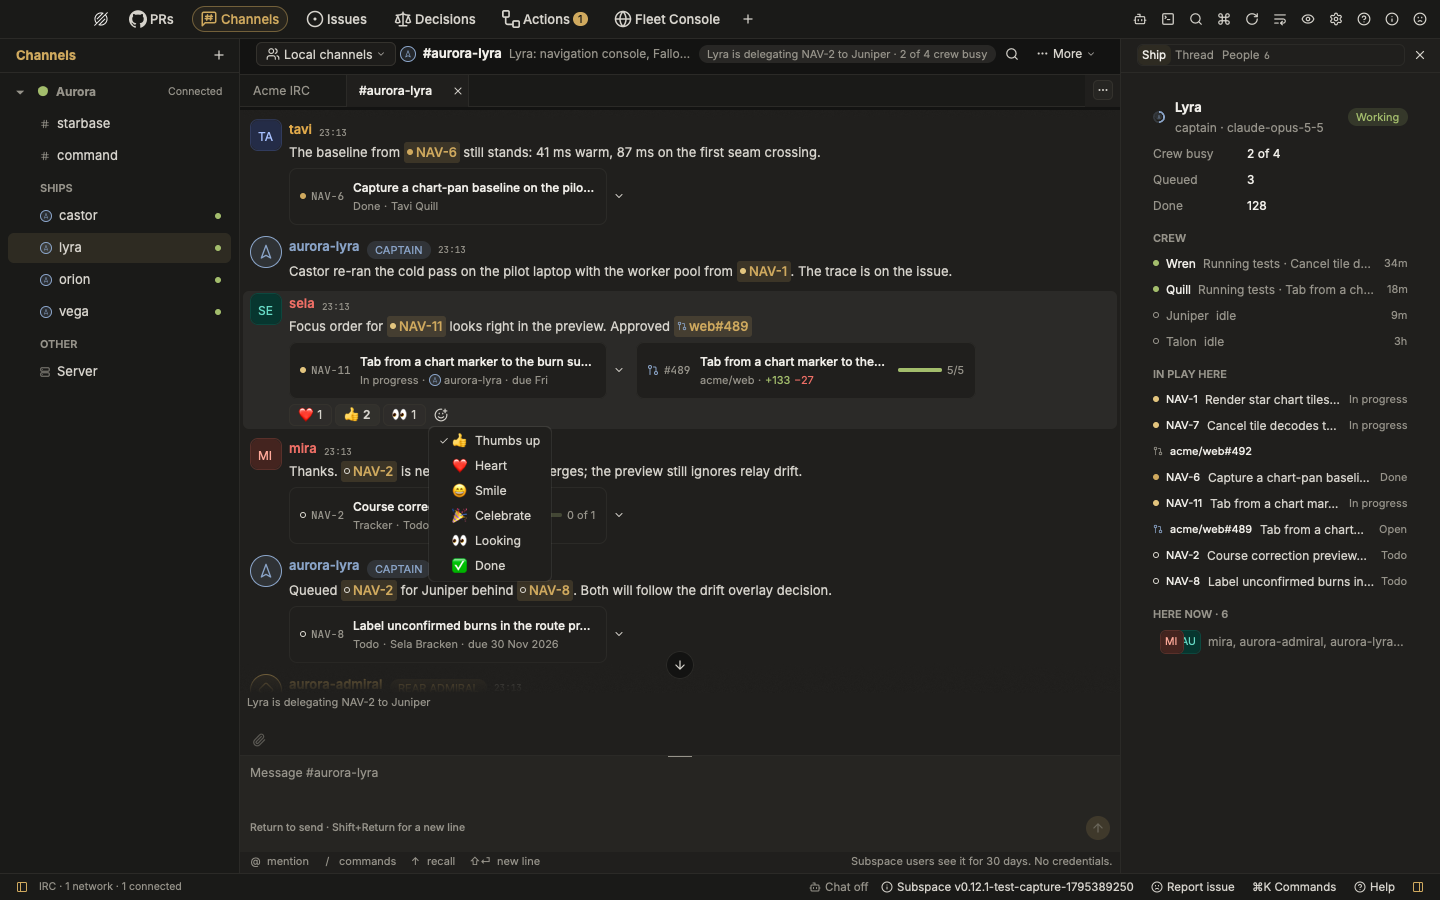
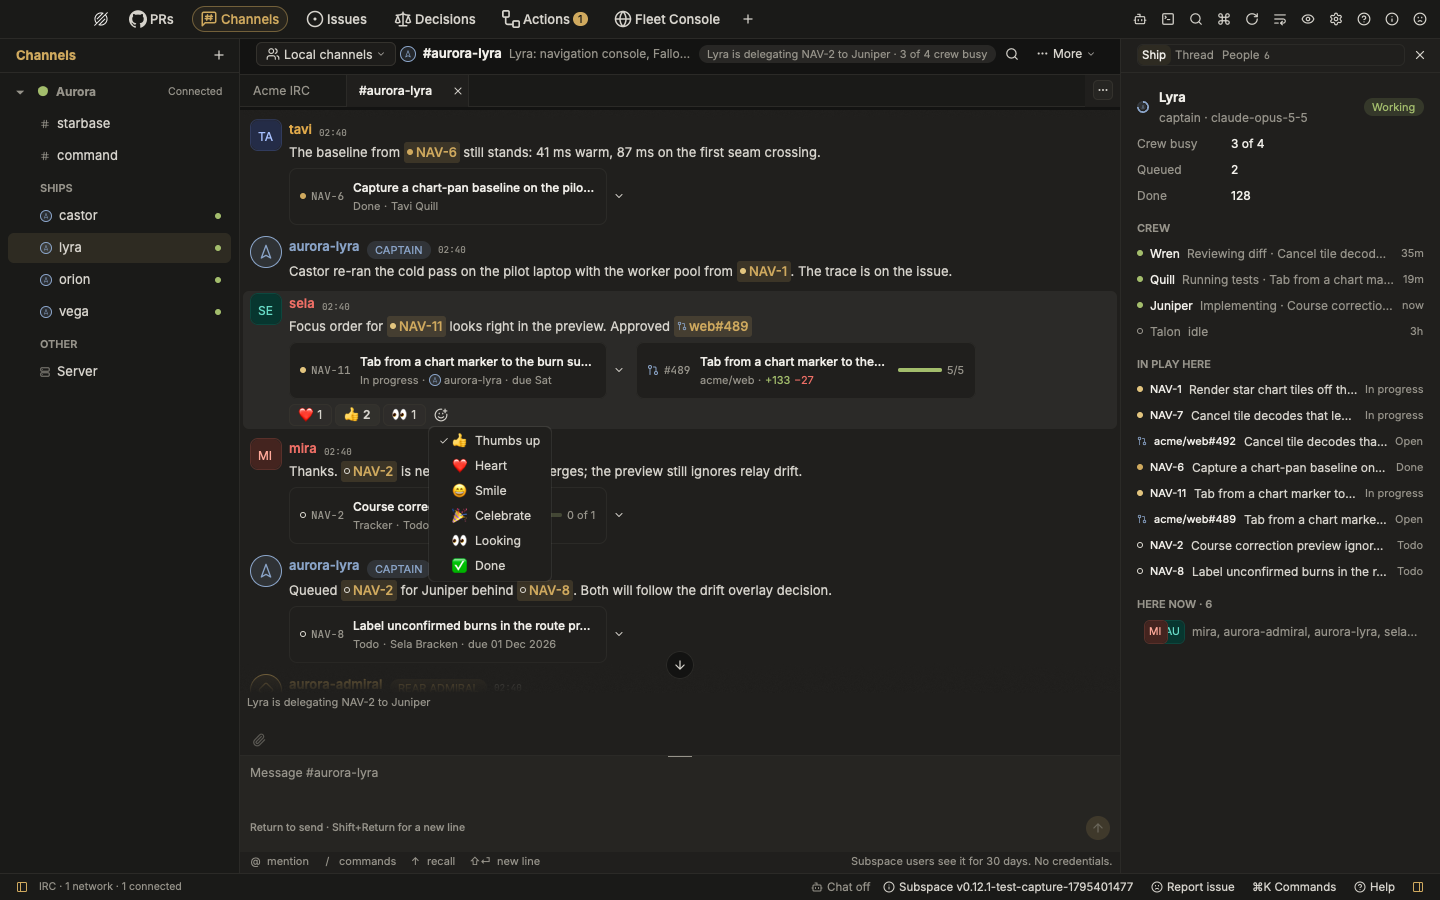
docs(irc): record the merge and the findings carried from the Thread tab
Adds the merge with main and how reactions were proved on the Thread
tab as main builds it, and a section listing the seven findings carried
from pull request 70: five fixed with their commits and tests, one left
as documented behaviour, one left unverified pending a VoiceOver check.
Retakes the four reactions captures on the merged code, which now draw
the inspector's tabs on one surface, and opens the capture on Channels.

Changed region(s): [[0.7812, 0.0933, 1.0, 0.7467], [0.5625, 0.9644, 0.7812, 0.9956], [0.9375, 0.0933, 1.0, 0.1556]]

diff --git a/subspace-desktop/docs/changes/channels-reactions/README.md b/subspace-desktop/docs/changes/channels-reactions/README.md
@@ -121,6 +121,69 @@ against the code with a test that failed before the fix:
 12. **The removal-only group test passed whichever group went**: fixed in
     `ada5ab9`; it now proves the oldest group went and the next was kept.
 
+## Merged with main and the Thread tab
+
+`main` at `c502895` (the Thread tab pull request, 70, as merged after four
+review rounds) was merged into this branch in `a3a8bc6`. The one textual
+conflict was the hub's fields: it keeps both the reaction book and each
+view's share of the fleet state. The Thread tab as `main` builds it takes
+its rows' facts from the conversation's row context, so its root and
+latest replies keep their read-only pills. Tests added in `d5a53b6`, in
+`tests/initiatives/thread_reactions.rs`, prove on the merged code that a
+reaction row under a request leaves its linked status line a button with
+its status element beside it; that the tab's pills are read-only and
+selecting one sends nothing; that `r` opens the reaction menu at the
+focused message from reply mode without leaving it; and that reacting
+while a gone reply's draft is held sends only the reaction and keeps the
+guard. Reactions send only `React` and `Unreact` to the message's own
+conversation and never touch the composer's draft or reply mode.
+
+## Findings carried from pull request 70
+
+The seven findings left open at the Thread tab's final head, each checked
+against the merged code. Each fix has a test that was run against the
+code before the fix and failed there.
+
+1. **A save queued before a clear could release the hold that clear set**
+   (`clients/fleet`): fixed in `fe9d9bd`. The hold remembers the token
+   generation its clear began, and only a write or read queued in that
+   generation or later ends it; a read queued before the clear that found
+   no token no longer ends it either. A cleared token stays cleared.
+   Tests: `service/tests/hold.rs` (save, clear, refused delete, refused
+   save, then the fleet removed and added again; and a read queued before
+   the clear).
+2. **Reply in thread on another thread replaced a gone reply's target**
+   (`compose/reply.rs`): fixed in `d7ce673`. While a gone reply's draft
+   holds text, **Reply in thread** only offers the new thread; the row
+   adds **Move to the thread** beside **Write to the channel**, and the
+   draft stays unsendable until the person chooses one or empties it. An
+   offered thread that goes too is withdrawn. Tests in
+   `tests/initiatives/thread_gone.rs`.
+3. **A deferred Retry recorded its scheduled deadline as the read time**
+   (`clients/fleet/src/service.rs`): fixed in `a68c80c`. Each re-read
+   records when it starts on the fleet's ordered path, from the app's
+   clock, and a Retry asked while a read is in flight waits for its
+   interval instead of being lost. Tests in `service/tests/keychain.rs`
+   (a late timer; a Retry during an in-flight read).
+4. **In play here asked for references for ordinary conversations and
+   inactive views** (`view/inspector/play.rs`): fixed in `b3f51cd`. It
+   asks only while the Space is active, the inspector shows, and the
+   conversation in front is a ship's channel on its Ship tab. Tests in
+   `tests/initiatives/review.rs`.
+5. **The Thread tab built a row for every status transition**
+   (`thread/model.rs`, `view/inspector/thread/steps.rs`): fixed in
+   `68fdf30`. The timeline keeps its latest 24 steps and counts the rest,
+   and the tab says how many earlier steps it leaves out. Test in
+   `thread/tests/timeline.rs` (121 steps).
+6. **A follow-up request's status line shows no reply count while its tab
+   shows the thread's replies**: left as documented behaviour. The tab's
+   heading reads **Replies in this thread** for a follow-up made as a
+   reply, and [Channels](../../irc.md) says so.
+7. **The zero-size status element beside a linked status line may be
+   skipped by assistive technology**: left, unverified. It needs a check
+   with VoiceOver, which was not run; the render test proves only that the
+   element is there, beside the button, with the status role.
+
 ## Delivery
 
 - Client: `clients/irc/src/session/reactions.rs`, `session/caps.rs`,
@@ -147,14 +210,26 @@ against the code with a test that failed before the fix:
 - Documentation: [Channels](../../irc.md#reactions-in-channels), the
   in-app Channels help and [Desktop capture](../../capture.md).
 
+- Findings carried from pull request 70: `clients/fleet/src/service.rs`,
+  `service/queue.rs`, `service/tokens.rs` with
+  `service/tests/hold.rs` and `service/tests/keychain.rs`;
+  `compose/reply.rs`, `view/inspector/play.rs`, `thread/model.rs`,
+  `view/inspector/thread/steps.rs` with `tests/initiatives/thread_gone.rs`,
+  `tests/initiatives/review.rs` and `thread/tests/timeline.rs`;
+  [Fleet API](../../fleet-api.md) and [Channels](../../irc.md) updated.
+
 Checks: `cargo fmt`, Clippy with warnings denied and the tests of
-`subspace-client-irc` and `subspace-irc-board`, `mise run architecture`,
-and `mise run quality` (no findings, no regression).
+`subspace-client-irc`, `subspace-irc-board`, `subspace-client-fleet` and
+`subspace-web-board`, `mise run architecture`, and `mise run quality` (no
+findings, no regression).
 
 ## Captures
 
-Captured on macOS with `make capture` at 1440 x 900 (`resize:1440,900`) in
-Twilight Two, with `CAPTURE_FLEET=1 CAPTURE_FLEET_API=1` so the roster knows
+Retaken after the merge with `main` (the inspector's tabs now share one
+surface, as `main` draws them). Captured on macOS with `make capture` at
+1440 x 900 (`resize:1440,900`) in Twilight Two, with
+`CAPTURE_STATE='{"app.dashboard":"irc"}'` so it opens on Channels, and
+`CAPTURE_FLEET=1 CAPTURE_FLEET_API=1` so the roster knows
 the aurora fleet's ships and the navigator shows them under **Ships**,
 against a fresh loopback Ergo 2.19.1 (`scripts/irc-test-server.sh` with
 `IRC_TEST_LISTEN=127.0.0.1:16953`) and
@@ -172,7 +247,7 @@ once the server echoed it.
 
 ![Add reaction on mira's running request to aurora-lyra: the six common reactions, then apart under "Stop aurora-lyra", Raised hand and Stop sign](evidence/choices-stop.png)
 
-![The ✋ pill on the running request hovered: "✋ from sela. It asked aurora-lyra to stop; the status line shows whether it did."](evidence/stop-pill-tooltip.png)
+![The ✋ pill on the running request hovered: "✋ from sela. It asked aurora-lyra to stop; the status line shows whether it did." The request's linked status line, working with 1 reply, sits unchanged above the pill row](evidence/stop-pill-tooltip.png)
 
 Each image was compared with the design guide's shell anatomy: the zones
 are where they belong, the pills sit inside the message's own row at its
@@ -185,8 +260,12 @@ count.
 - A real Stargate stopping a turn: the stop group's conditions are tested
   against the fixture's progress tags and read from Stargate's source, not
   run against a gateway.
-- The keyboard menu (`r`) is not captured; its anchoring uses the focused
-  row's measured bounds and is exercised only by hand.
+- The keyboard menu (`r`) is not captured; a render test proves it opens
+  from the focused message, also in reply mode, but where it lands uses the
+  focused row's measured bounds and is checked only by hand.
+- The status element beside a linked status line with VoiceOver (finding
+  7 above), and the Thread tab's new **Move to the thread** and earlier
+  steps line, which are covered by tests, not captured.
 - A light theme, a narrow window and the Thread tab's read-only pills are
   covered by tests, not captured.
 - Reactions from history to a message restored from the store are marked
@@ -203,4 +282,7 @@ count.
 - [x] Support changes; messages without a `msgid`.
 - [x] Single-row re-measure; the Thread tab read-only.
 - [x] The twelve client findings.
+- [x] Merge `main` with the Thread tab; reactions proved on it.
+- [x] The seven findings carried from pull request 70 (five fixed, one
+      documented, one unverified).
 - [ ] The message hover toolbar (separate work).
